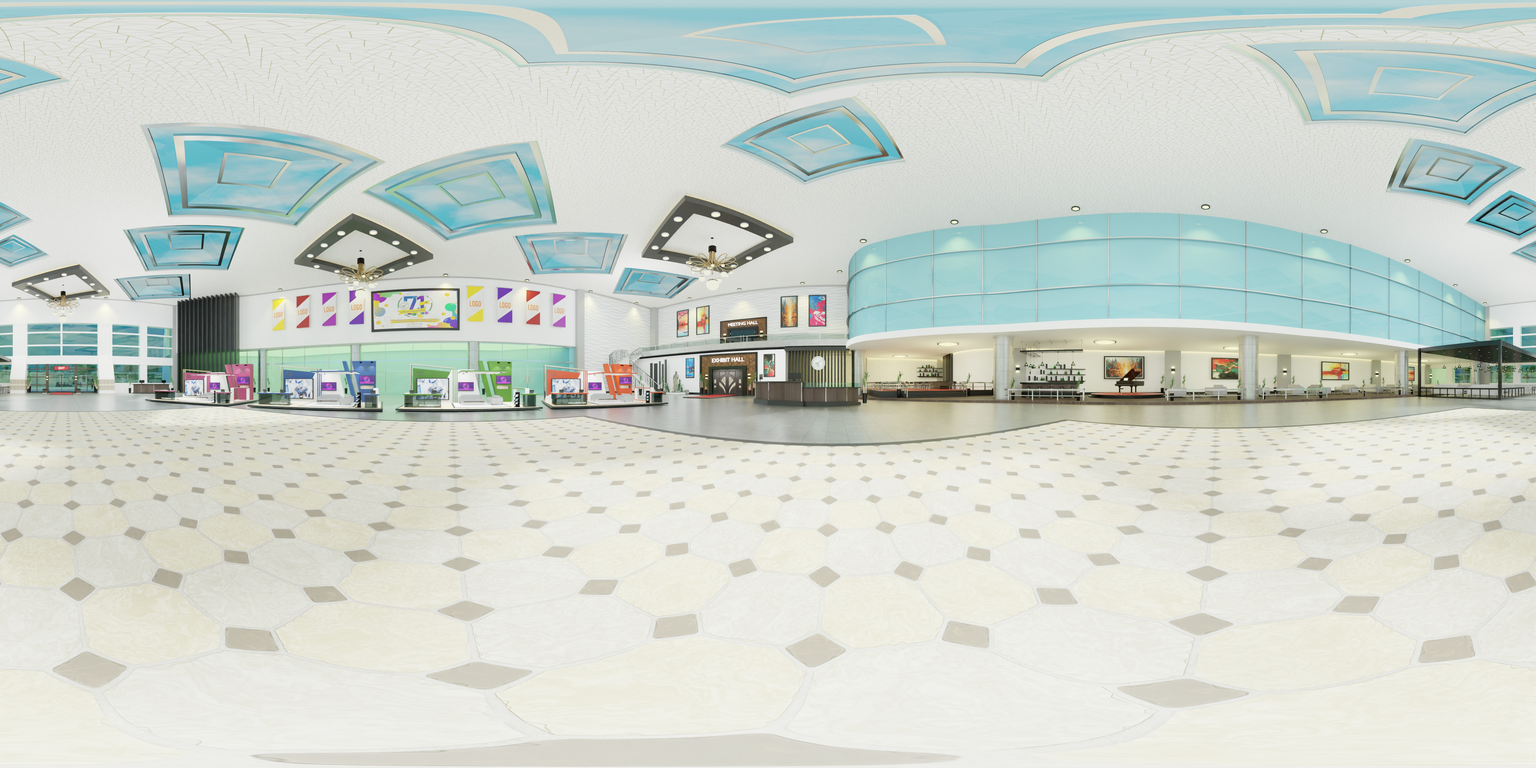
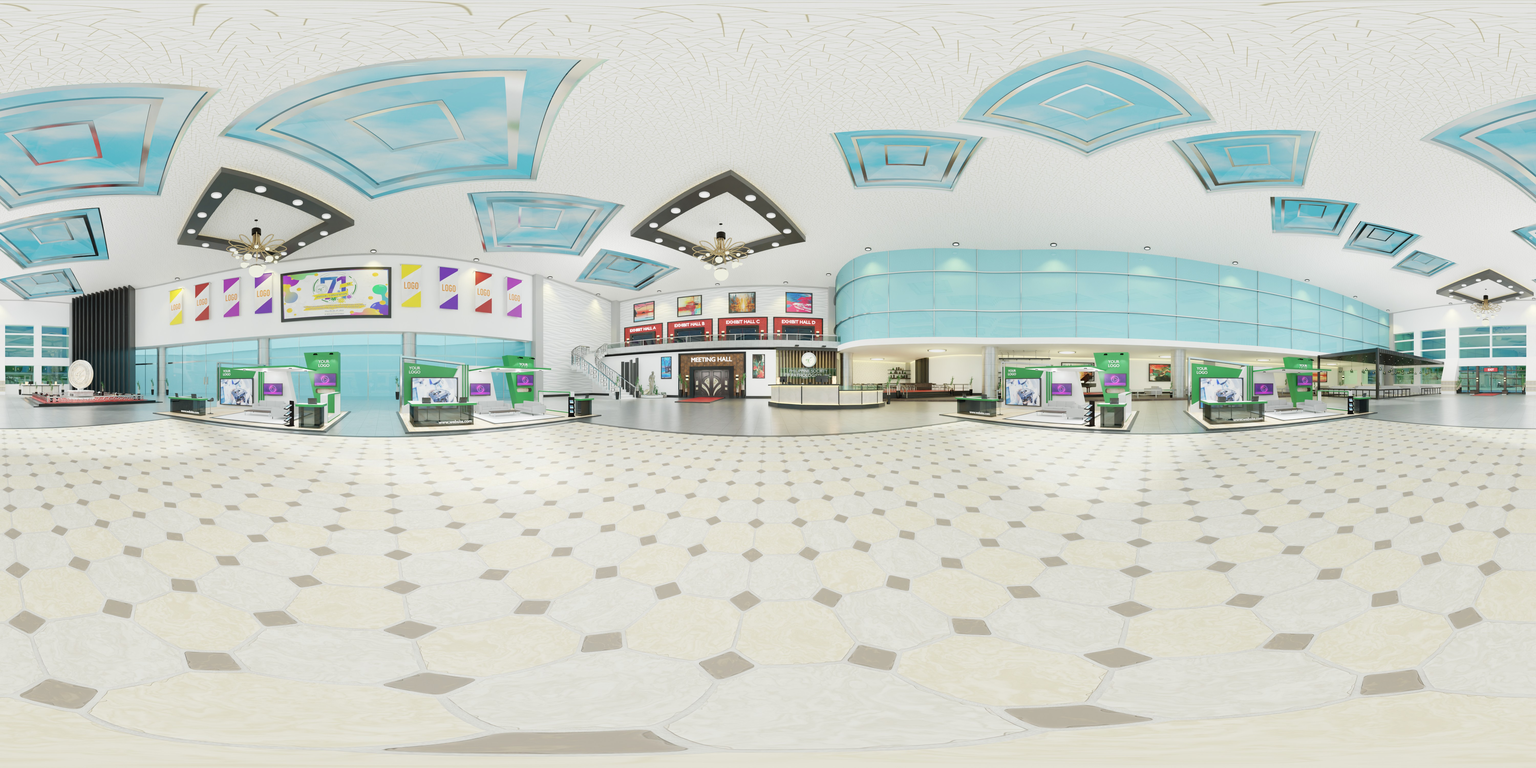
Update Hall A to D & lobby hotspot at store.js

diff --git a/resources/js/store/store.js b/resources/js/store/store.js
@@ -51,43 +51,49 @@ export default new Vuex.Store({
       {
         "scene": 'lobby',
         "type": "scene",
-        "pitch": -1.24,
-        "yaw": -21.63,
+        "pitch": 1.14,
+        "yaw": -13.30,
         "cssClass": "custom-hotspot enter",
-        "sceneId": "hall",
+        "sceneId": "meeting_hall",
       },
       {
         "scene": 'lobby',
         "type": "info",
-        "pitch": 31.72,
-        "yaw": -179,
-        "text": "Dr. Nelson T. Geraldino's Orchid Collection",
+        "pitch": 2.45,
+        "yaw": -162.28,
+        "text": "Philippine Society of Pathologists",
       },
-
-      {
-        "scene": 'lobby',
-        "type": "scene",
-        "pitch": -0.93,
-        "yaw": 21.24,
-        "cssClass": "custom-hotspot enter",
-        "sceneId": "hall",
-      },
-      {
-        "scene": 'lobby',
-        "type": "scene",
-        "pitch": 0.36,
-        "yaw": 164.62,
-        "cssClass": "custom-hotspot enter",
-        "sceneId": "main_entrance",
-      },
-      {
-        "scene": 'lobby',
-        "type": "scene",
-        "pitch": 0.15,
-        "yaw": -164.26,
-        "cssClass": "custom-hotspot enter",
-        "sceneId": "main_entrance",
-      },
+      // {
+      //   "scene": 'lobby',
+      //   "type": "info",
+      //   "pitch": 31.72,
+      //   "yaw": -179,
+      //   "text": "Dr. Nelson T. Geraldino's Orchid Collection",
+      // },
+      // {
+      //   "scene": 'lobby',
+      //   "type": "scene",
+      //   "pitch": -0.93,
+      //   "yaw": 21.24,
+      //   "cssClass": "custom-hotspot enter",
+      //   "sceneId": "hall",
+      // },
+      // {
+      //   "scene": 'lobby',
+      //   "type": "scene",
+      //   "pitch": 0.36,
+      //   "yaw": 164.62,
+      //   "cssClass": "custom-hotspot enter",
+      //   "sceneId": "main_entrance",
+      // },
+      // {
+      //   "scene": 'lobby',
+      //   "type": "scene",
+      //   "pitch": 0.15,
+      //   "yaw": -164.26,
+      //   "cssClass": "custom-hotspot enter",
+      //   "sceneId": "main_entrance",
+      // },
       {
         "scene": 'hall',
         "type": "scene",

diff --git a/database/seeders/BoothSeeder.php b/database/seeders/BoothSeeder.php
@@ -349,41 +349,41 @@ class BoothSeeder extends Seeder
 
             'Hall D' => [
                 // left facing lobby/ hall C exit
-                ['L1', -0.24, -46.18, 'silver', "L1.png", "L1.png",
-                    [
-                        ['External Link','-16.06','18.78','https://localhost'],
-                        ['Contact Us','-9.18','23.15',''],
-                        ['Quiz','-10.11','-15.37',''],
-                        ['Brochures','-12.06','9.60',''],
-                        ['Videos','-0.49','-10.89',''],
-                        ['Gallery','-0.60','9.05',''],
-                    ]
-                ],
-                // SPONSOR_R2
-                ['L2', 0.40, -79.55, 'silver', "L2.png", "L2.png",
-                    [
-                        ['External Link','-12.21','23.72','https://localhost'],
-                        ['Contact Us','-7.95','26.82',''],
-                        ['Quiz','-7.71','-12.92',''],
-                        ['Brochures','-10.25','17.48',''],
-                        ['Videos','0.93','-10.35',''],
-                        ['Gallery','-0.38','11.95',''],
-                    ]
-                ],
+                // ['L1', -0.24, -46.18, 'silver', "L1.png", "L1.png",
+                //     [
+                //         ['External Link','-16.06','18.78','https://localhost'],
+                //         ['Contact Us','-9.18','23.15',''],
+                //         ['Quiz','-10.11','-15.37',''],
+                //         ['Brochures','-12.06','9.60',''],
+                //         ['Videos','-0.49','-10.89',''],
+                //         ['Gallery','-0.60','9.05',''],
+                //     ]
+                // ],
+                // // SPONSOR_R2
+                // ['L2', 0.40, -79.55, 'silver', "L2.png", "L2.png",
+                //     [
+                //         ['External Link','-12.21','23.72','https://localhost'],
+                //         ['Contact Us','-7.95','26.82',''],
+                //         ['Quiz','-7.71','-12.92',''],
+                //         ['Brochures','-10.25','17.48',''],
+                //         ['Videos','0.93','-10.35',''],
+                //         ['Gallery','-0.38','11.95',''],
+                //     ]
+                // ],
 
                 
 
-                // SPONSOR_R3
-                ['L3',  0.24, -119.20, 'silver', "L3.png", "L3.png",
-                    [
-                        ['External Link','-15','-20',''],
-                        ['Contact Us','-9','-24',''],
-                        ['Quiz','-11','12',''],
-                        ['Brochures','-4','-10',''],
-                        ['Videos','-1','9',''],
-                        ['Gallery','2','-10',''],
-                    ]
-                ],
+                // // SPONSOR_R3
+                // ['L3',  0.24, -119.20, 'silver', "L3.png", "L3.png",
+                //     [
+                //         ['External Link','-15','-20',''],
+                //         ['Contact Us','-9','-24',''],
+                //         ['Quiz','-11','12',''],
+                //         ['Brochures','-4','-10',''],
+                //         ['Videos','-1','9',''],
+                //         ['Gallery','2','-10',''],
+                //     ]
+                // ],
 
 
                 // LEFT SPONSOR_L4
@@ -409,27 +409,27 @@ class BoothSeeder extends Seeder
                     ]
                 ],
                 // SPONSOR_L6
-                ['R1', 0.06, 77.43, 'silver', "R1.png", "R1.png",
-                    [
-                        ['External Link','-16','20',''],
-                        ['Contact Us','-10','24',''],
-                        ['Quiz','-10','-14',''],
-                        ['Brochures','-4','9',''],
-                        ['Videos','-1','-11',''],
-                        ['Gallery','2','9',''],
-                    ]
-                ],
-                // SPONSOR_L7
-                ['R2', -0.71, 47.80, 'silver', "R2.png", "R2.png",
-                    [
-                        ['External Link','-16','20',''],
-                        ['Contact Us','-10','24',''],
-                        ['Quiz','-10','-14',''],
-                        ['Brochures','-4','9',''],
-                        ['Videos','-1','-11',''],
-                        ['Gallery','2','9',''],
-                    ]
-                ],
+                // ['R1', 0.06, 77.43, 'silver', "R1.png", "R1.png",
+                //     [
+                //         ['External Link','-16','20',''],
+                //         ['Contact Us','-10','24',''],
+                //         ['Quiz','-10','-14',''],
+                //         ['Brochures','-4','9',''],
+                //         ['Videos','-1','-11',''],
+                //         ['Gallery','2','9',''],
+                //     ]
+                // ],
+                // // SPONSOR_L7
+                // ['R2', -0.71, 47.80, 'silver', "R2.png", "R2.png",
+                //     [
+                //         ['External Link','-16','20',''],
+                //         ['Contact Us','-10','24',''],
+                //         ['Quiz','-10','-14',''],
+                //         ['Brochures','-4','9',''],
+                //         ['Videos','-1','-11',''],
+                //         ['Gallery','2','9',''],
+                //     ]
+                // ],
                 // SPONSOR_L8
                 // ['BLUE CROSS', -0.23, 48.32, 'silver', "BLUE.png", "BLUE.png",
                 //     [
